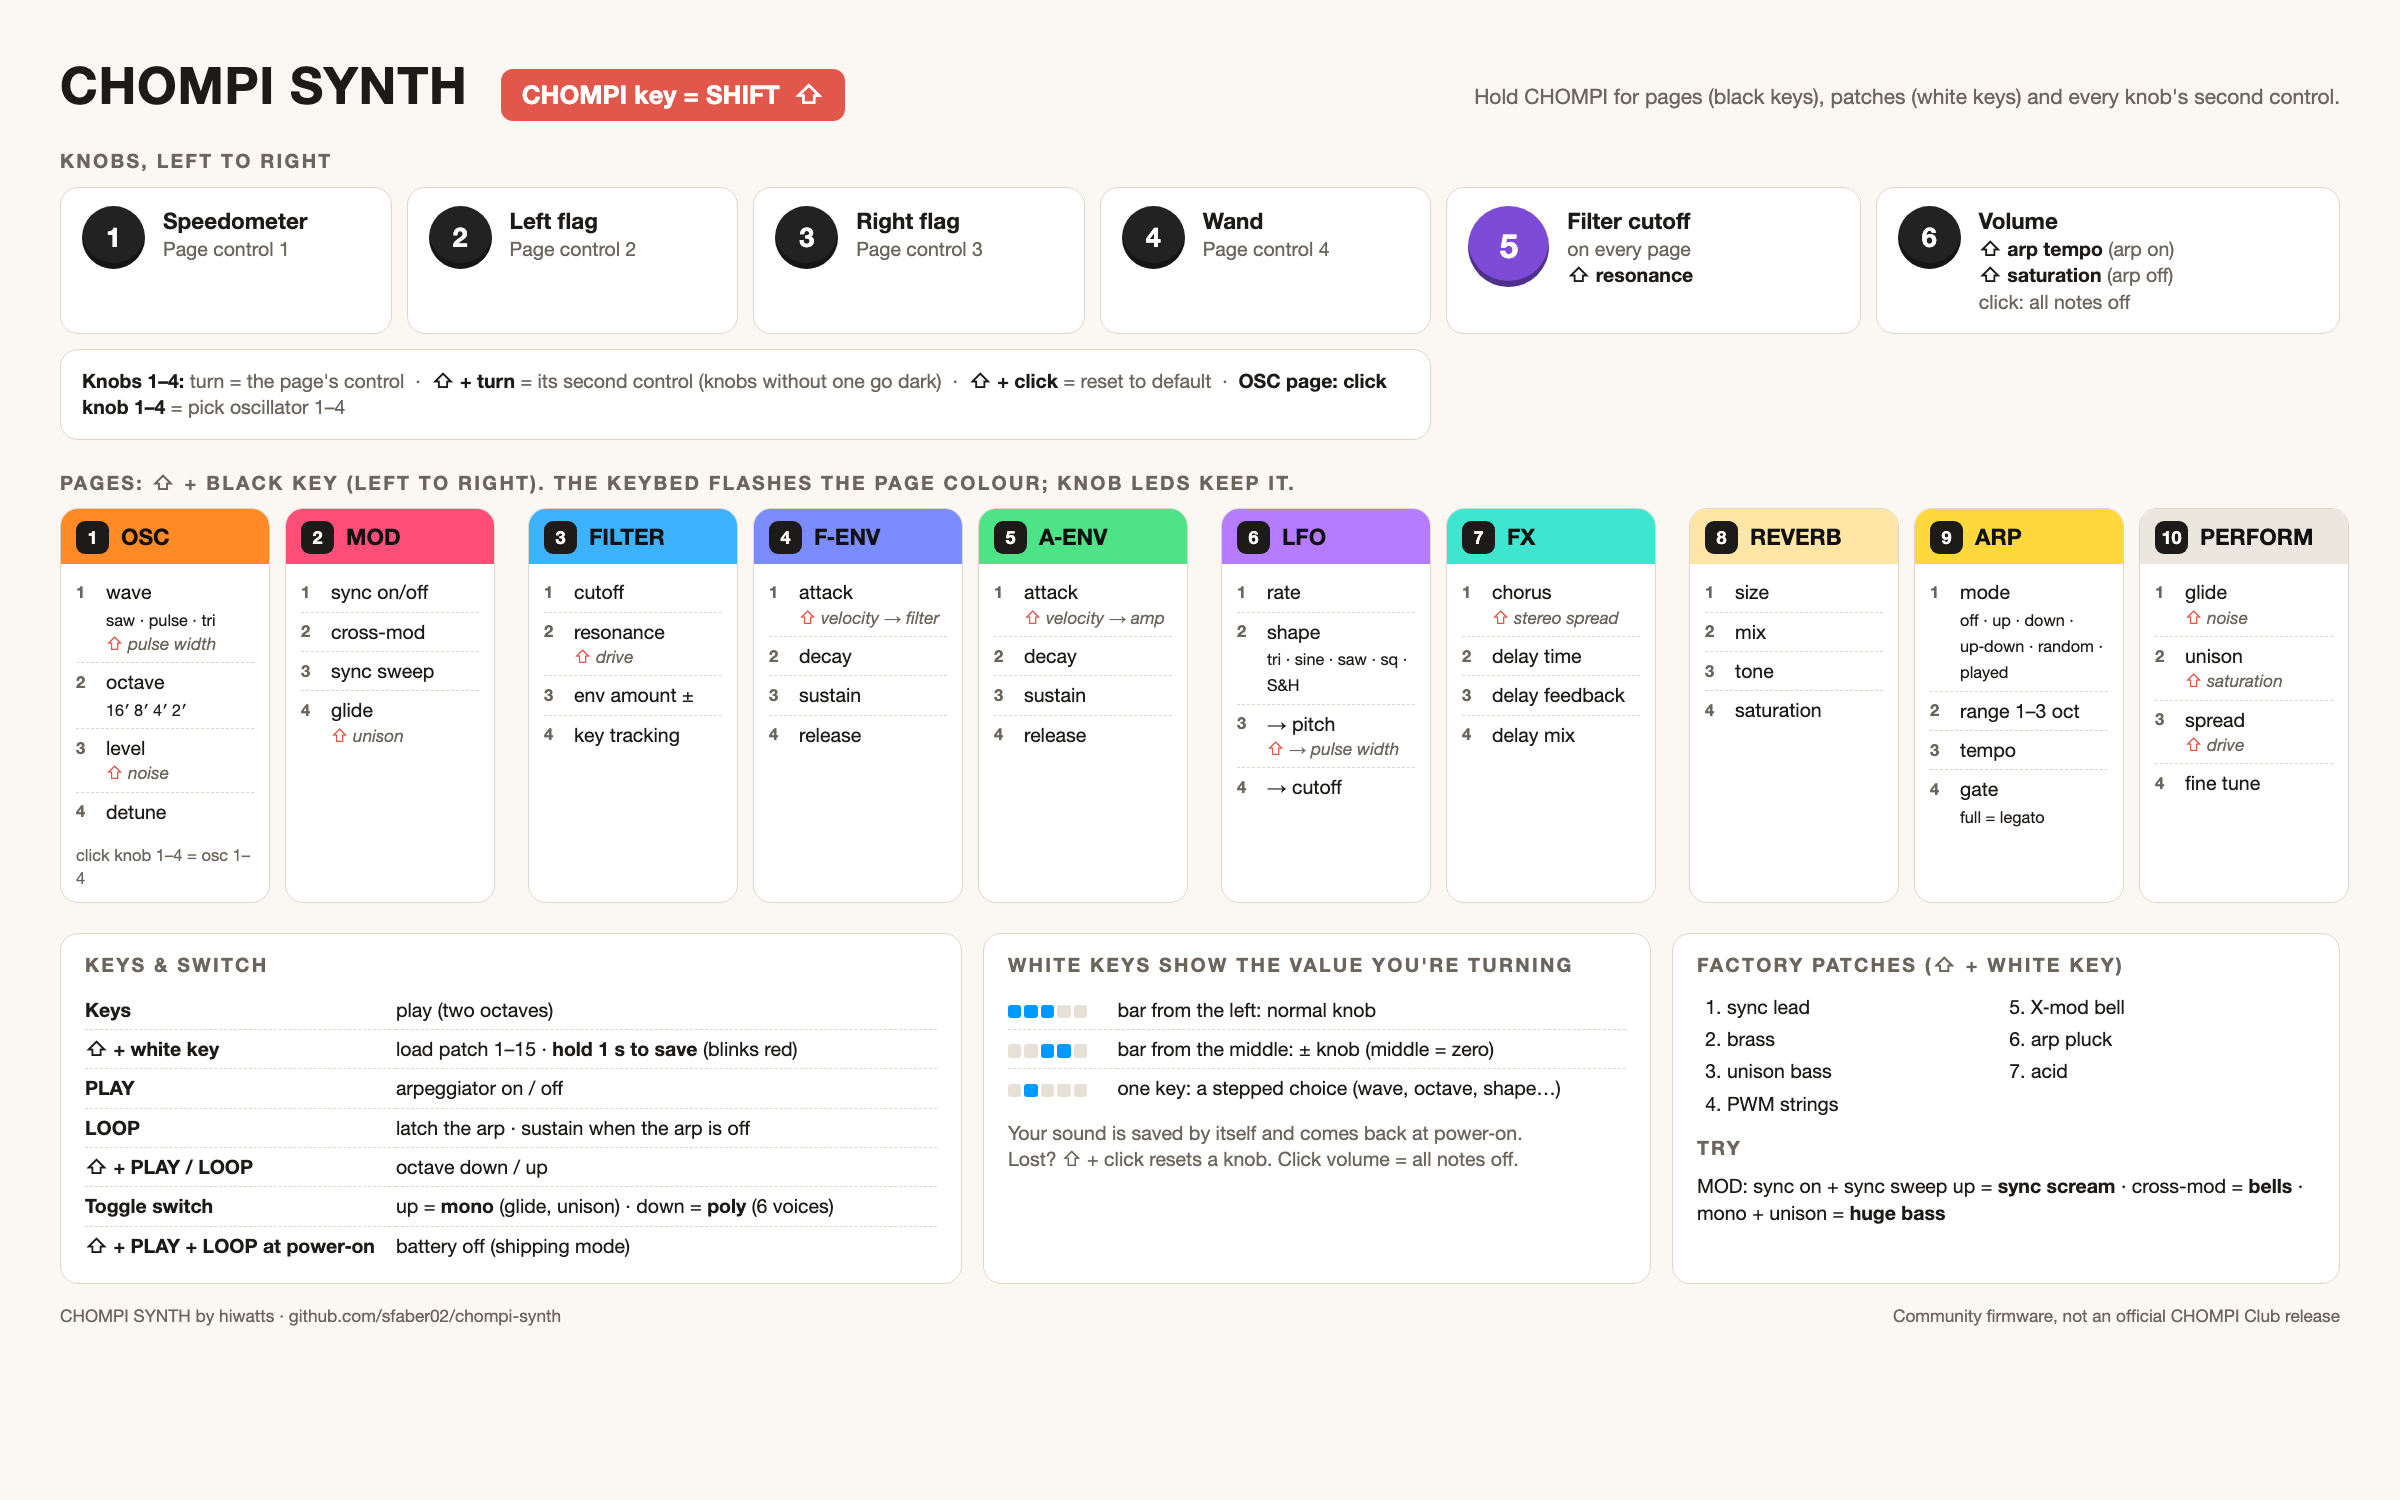
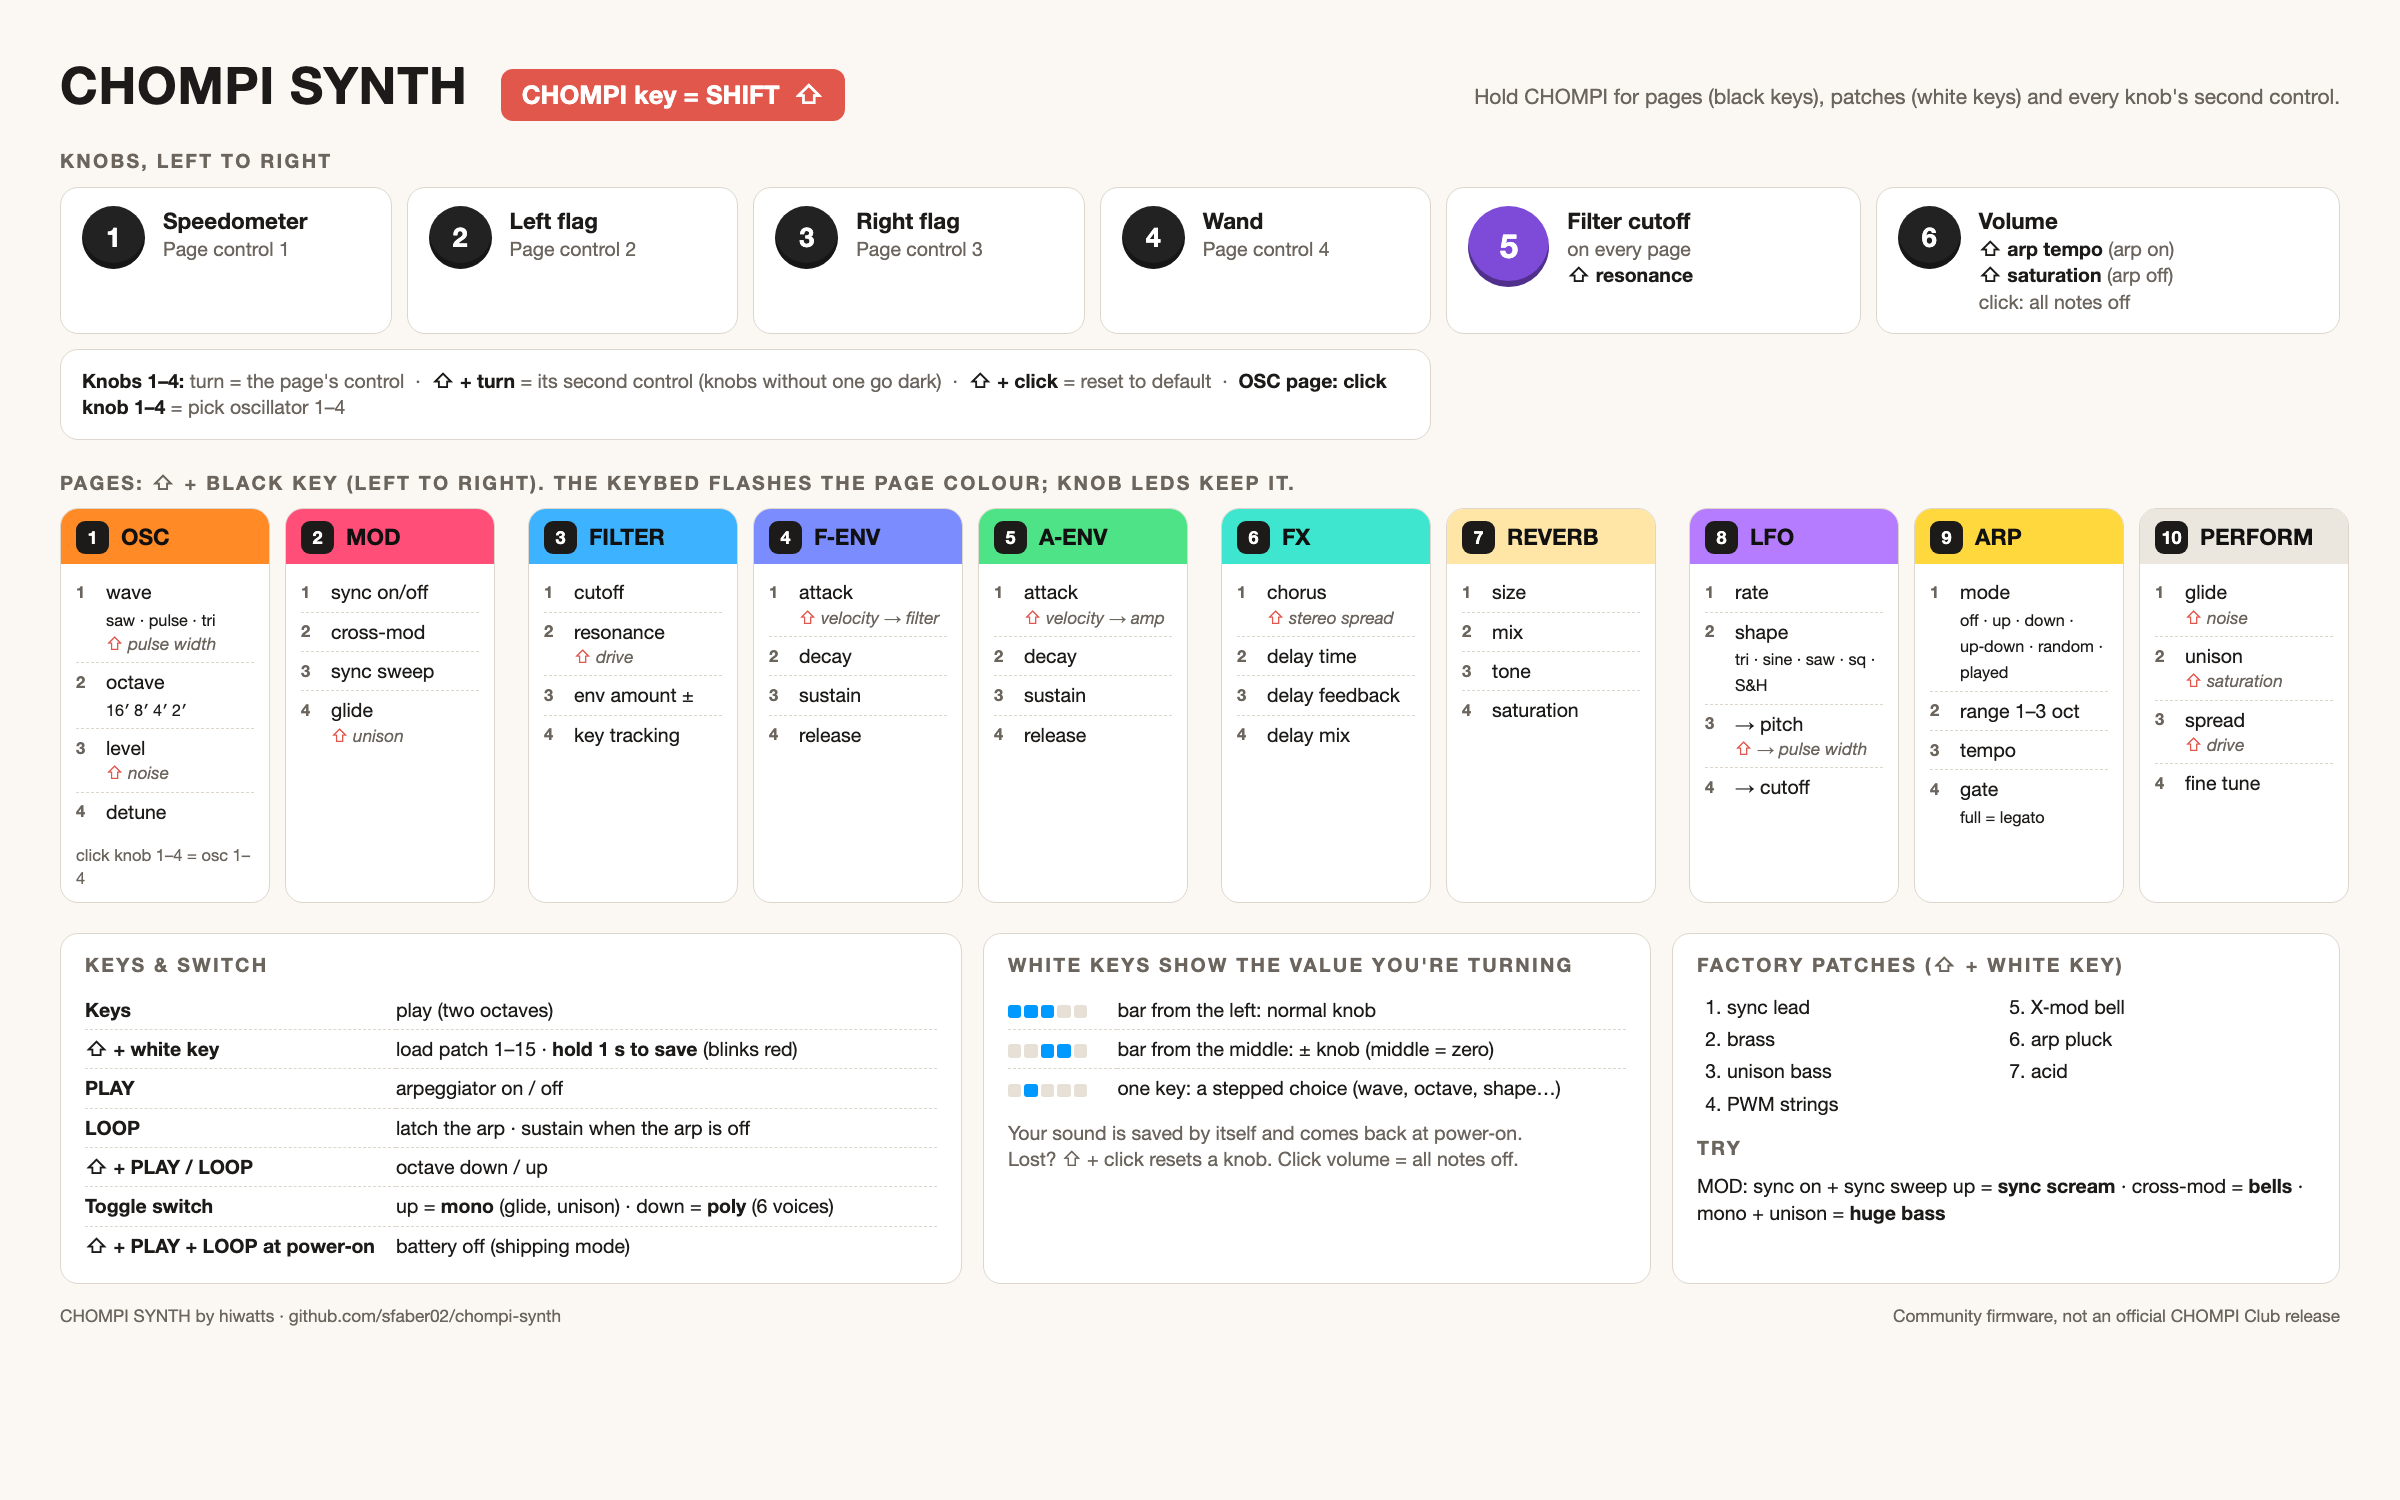
Reorder pages: FX on black key 6, REVERB 7, LFO 8; log peak CPU
Groups the black keys as oscillators | filter + envelopes | effects |
modulation + performance. Docs and cheat sheet follow. DIAG builds also
log average and worst-block audio CPU once a second.

Changed region(s): [[0.5, 0.3373, 0.8125, 0.552], [0.75, 0.4907, 0.7812, 0.5213]]

diff --git a/docs/cheatsheet.html b/docs/cheatsheet.html
@@ -144,15 +144,7 @@
     </div>
   </div>
   <div class="group">
-    <div class="page"><div class="top" style="background:#b57cff"><span class="n">6</span>LFO</div>
-      <ol>
-        <li><span class="k">1</span><span>rate</span></li>
-        <li><span class="k">2</span><span>shape<br><small>tri · sine · saw · sq · S&amp;H</small></span></li>
-        <li><span class="k">3</span><span>→ pitch<em>→ pulse width</em></span></li>
-        <li><span class="k">4</span><span>→ cutoff</span></li>
-      </ol>
-    </div>
-    <div class="page"><div class="top" style="background:#3fe6cf"><span class="n">7</span>FX</div>
+    <div class="page"><div class="top" style="background:#3fe6cf"><span class="n">6</span>FX</div>
       <ol>
         <li><span class="k">1</span><span>chorus<em>stereo spread</em></span></li>
         <li><span class="k">2</span><span>delay time</span></li>
@@ -160,14 +152,22 @@
         <li><span class="k">4</span><span>delay mix</span></li>
       </ol>
     </div>
-  </div>
-  <div class="group">
-    <div class="page"><div class="top" style="background:#ffe6a6"><span class="n">8</span>REVERB</div>
+    <div class="page"><div class="top" style="background:#ffe6a6"><span class="n">7</span>REVERB</div>
       <ol>
         <li><span class="k">1</span><span>size</span></li>
         <li><span class="k">2</span><span>mix</span></li>
         <li><span class="k">3</span><span>tone</span></li>
         <li><span class="k">4</span><span>saturation</span></li>
+      </ol>
+    </div>
+  </div>
+  <div class="group">
+    <div class="page"><div class="top" style="background:#b57cff"><span class="n">8</span>LFO</div>
+      <ol>
+        <li><span class="k">1</span><span>rate</span></li>
+        <li><span class="k">2</span><span>shape<br><small>tri · sine · saw · sq · S&amp;H</small></span></li>
+        <li><span class="k">3</span><span>→ pitch<em>→ pulse width</em></span></li>
+        <li><span class="k">4</span><span>→ cutoff</span></li>
       </ol>
     </div>
     <div class="page"><div class="top" style="background:#ffd83d"><span class="n">9</span>ARP</div>

diff --git a/code/src/synth/params.h b/code/src/synth/params.h
@@ -197,9 +197,9 @@ enum Page : uint8_t
     PAGE_FILTER,
     PAGE_FENV,
     PAGE_AENV,
-    PAGE_LFO,
     PAGE_FX,
     PAGE_REVERB,
+    PAGE_LFO,
     PAGE_ARP,
     PAGE_PERFORM,
     NUM_PAGES
@@ -216,9 +216,9 @@ constexpr uint8_t kPageParams[NUM_PAGES][2 * kPageKnobs] = {
     {CUTOFF, RESONANCE, FENV_AMT, KEYTRACK, kNone, DRIVE, kNone, kNone},
     {FENV_A, FENV_D, FENV_S, FENV_R, VEL_FILTER, kNone, kNone, kNone},
     {AENV_A, AENV_D, AENV_S, AENV_R, VEL_AMP, kNone, kNone, kNone},
-    {LFO_RATE, LFO_SHAPE, LFO_PITCH, LFO_CUTOFF, kNone, kNone, LFO_PWM, kNone},
     {CHORUS, DLY_TIME, DLY_FDBK, DLY_MIX, SPREAD, kNone, kNone, kNone},
     {REV_SIZE, REV_MIX, REV_TONE, SATURATE, kNone, kNone, kNone, kNone},
+    {LFO_RATE, LFO_SHAPE, LFO_PITCH, LFO_CUTOFF, kNone, kNone, LFO_PWM, kNone},
     {ARP_MODE, ARP_RANGE, ARP_TEMPO, ARP_GATE, kNone, kNone, kNone, kNone},
     {GLIDE, UNISON, SPREAD, TUNE, NOISE, SATURATE, DRIVE, kNone},
 };
@@ -232,9 +232,9 @@ constexpr float kPageColour[NUM_PAGES][3] = {
     {0.f, .6f, 1.f},   // FILTER   blue
     {.2f, .3f, 1.f},   // F-ENV    indigo
     {0.f, 1.f, .3f},   // A-ENV    green
-    {.6f, 0.f, 1.f},   // LFO      purple
     {0.f, 1.f, .85f},  // FX       teal
     {1.f, .9f, .6f},   // REVERB   warm white
+    {.6f, 0.f, 1.f},   // LFO      purple
     {1.f, .85f, 0.f},  // ARP      yellow
     {1.f, 1.f, 1.f},   // PERFORM  white
 };

diff --git a/code/src/chompi_main.cpp b/code/src/chompi_main.cpp
@@ -74,13 +74,13 @@ static void DiagFlush()
 {
     static const char* kNames[] = {"BOOT", "SHIFT", "KEYDOWN", "KEYUP", "PAGE", "TOGGLE",
                                    "KNOB", "CLICK", "LOAD", "SAVE", "STALL", "EARLY",
-                                   "LEVEL", "LEVEL2"};
+                                   "LEVEL", "LEVEL2", "CPU"};
     size_t len = 0;
     while(diag.tail != diag.head && len < sizeof(diag_file.buf) - 48)
     {
         const DiagEvent& e = diag.ev[diag.tail % DiagLog::kSize];
         len += snprintf(diag_file.buf + len, sizeof(diag_file.buf) - len, "%lu %s %u %u\n",
-                        static_cast<unsigned long>(e.ms), e.code < 14 ? kNames[e.code] : "?",
+                        static_cast<unsigned long>(e.ms), e.code < 15 ? kNames[e.code] : "?",
                         e.a, e.b);
         diag.tail++;
     }
@@ -314,6 +314,9 @@ int main(void)
                 DiagMainAdd(D_LEVEL, pct(lv.voices), pct(lv.delay_in));
                 DiagMainAdd(D_LEVEL2, pct(lv.reverb_in), pct(lv.limit_gain));
             }
+            // The LED shows the average; dropouts come from the worst block.
+            DiagMainAdd(D_CPU, pct(cpu.GetAvgCpuLoad()), pct(cpu.GetMaxCpuLoad()));
+            cpu.Reset();
         }
         last_iter = System::GetNow();
 #endif

diff --git a/code/src/diag.h b/code/src/diag.h
@@ -29,6 +29,7 @@ enum DiagCode : uint8_t
     D_EARLY,     // Poll returned early (boot ignore window)
     D_LEVEL,     // a=voices peak %, b=delay input peak % (bends from 150)
     D_LEVEL2,    // a=reverb input peak %, b=limiter gain % (100 = untouched)
+    D_CPU,       // a=average audio CPU %, b=worst single block %
 };
 
 struct DiagEvent

diff --git a/README.md b/README.md
@@ -52,9 +52,9 @@ When you turn a knob, the white keys briefly show its value as a bar. A centred 
 | 3 | **FILTER** (blue) | cutoff | resonance<br>*CHOMPI: drive* | env amount ± | key track |
 | 4 | **F-ENV** (indigo) | attack<br>*CHOMPI: velocity → filter* | decay | sustain | release |
 | 5 | **A-ENV** (green) | attack<br>*CHOMPI: velocity → amp* | decay | sustain | release |
-| 6 | **LFO** (purple) | rate | shape: tri/sine/saw/square/S&H | → pitch<br>*CHOMPI: → PWM* | → cutoff |
-| 7 | **FX** (teal) | chorus<br>*CHOMPI: stereo spread* | delay time | feedback | delay mix |
-| 8 | **REVERB** (warm) | size | mix | tone | saturation |
+| 6 | **FX** (teal) | chorus<br>*CHOMPI: stereo spread* | delay time | feedback | delay mix |
+| 7 | **REVERB** (warm) | size | mix | tone | saturation |
+| 8 | **LFO** (purple) | rate | shape: tri/sine/saw/square/S&H | → pitch<br>*CHOMPI: → PWM* | → cutoff |
 | 9 | **ARP** (yellow) | mode: off/up/down/up-down/random/as played | range 1–3 oct | tempo (also CHOMPI + volume while the arp runs) | gate (full = legato) |
 | 10 | **PERFORM** (white) | glide<br>*CHOMPI: noise* | unison<br>*CHOMPI: saturation* | spread<br>*CHOMPI: drive* | fine tune |
 
